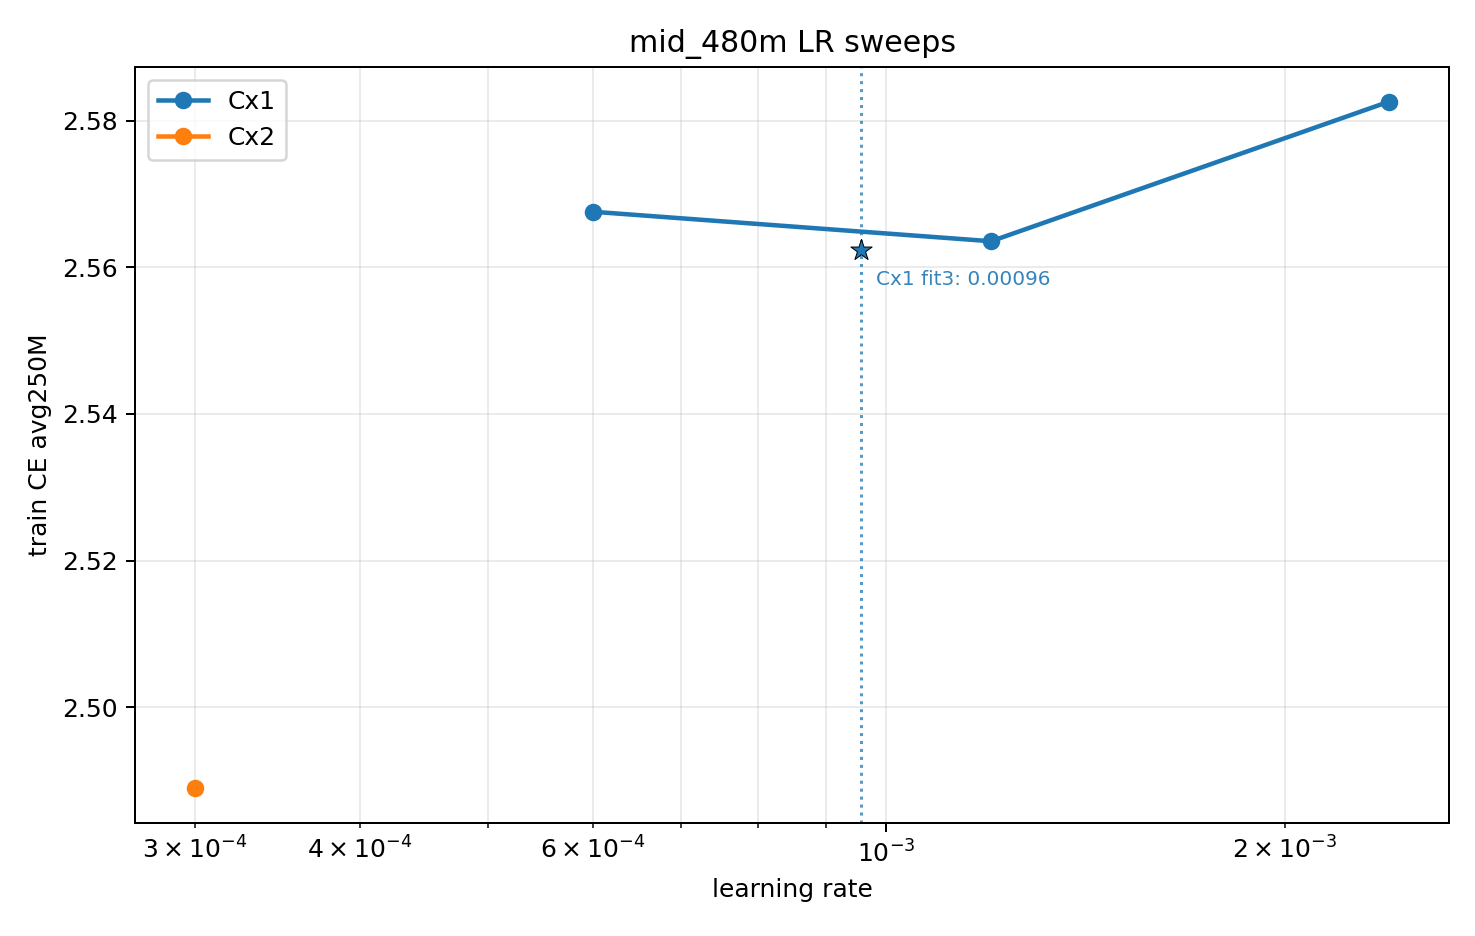
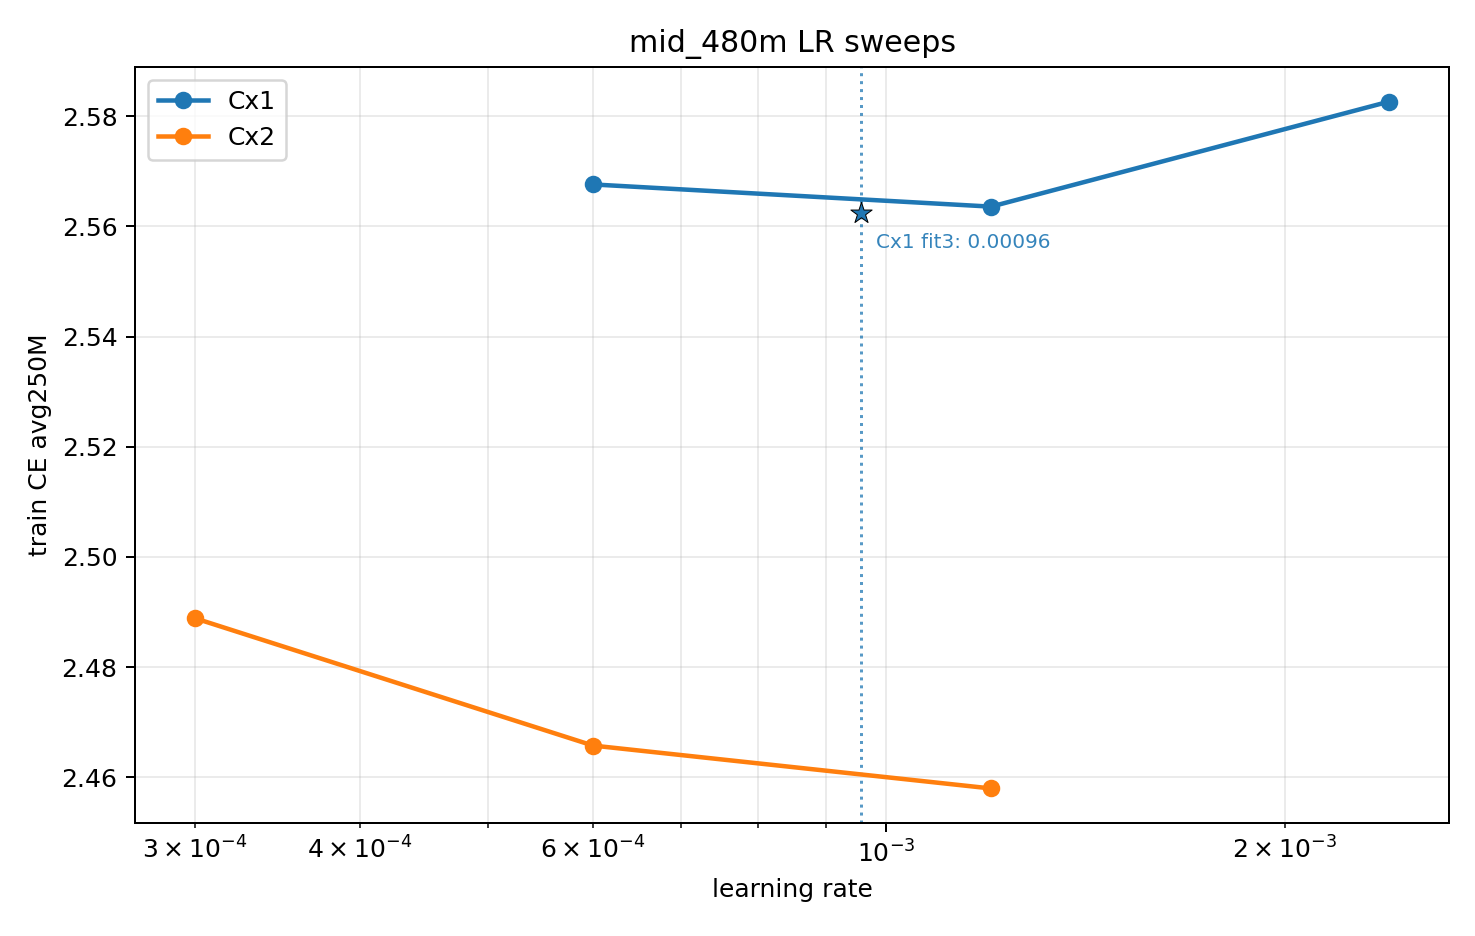
Record 480m Cx2 sweep

diff --git a/src/scripts/train/jacobm_olmoe_ladder/ANALYSIS.md b/src/scripts/train/jacobm_olmoe_ladder/ANALYSIS.md
@@ -156,14 +156,22 @@ remaining 810M/1.2B rungs before drawing a new cross-model conclusion.
 
 ## 2026-06-09 480M Cx2 Status
 
-The first midpoint `mid_480m` Cx2 point has completed:
+The initial midpoint `mid_480m` Cx2 triplet has completed:
 
 | LR | State | Tokens | avg100M | avg250M | avg500M | W&B |
 | ---: | --- | ---: | ---: | ---: | ---: | --- |
 | `3e-4` | finished | 15.216B | 2.4828 | 2.4889 | 2.4874 | `ridb7me5` |
+| `6e-4` | finished | 15.216B | 2.4597 | 2.4658 | 2.4643 | `9bf5s9lf` |
+| `1.2e-3` | finished | 15.216B | 2.4519 | 2.4580 | 2.4567 | `roj7jv11` |
 
-The `6e-4` and `1.2e-3` Cx2 runs are still active. Do not fit or make any
-midpoint Cx2 LR decision until those full runs finish.
+The curve is monotonic over the initial triplet, with best observed avg250M at
+the high-edge `1.2e-3`. Per the ladder policy, launched one factor-of-two
+high-side extension:
+
+- `2.4e-3`: `01KTPWRQD0Z7SN3KEA6EBMTCB2`
+
+Do not fit or make a final midpoint Cx2 LR decision until the `2.4e-3`
+extension finishes.
 
 ## 2026-06-02 Snapshot
 

diff --git a/src/scripts/train/jacobm_olmoe_ladder/RUNS.md b/src/scripts/train/jacobm_olmoe_ladder/RUNS.md
@@ -151,8 +151,9 @@ experiment name.
 | 2026-06-08 | `m480-cx1-b256k-gpu4-ep1mb8-lr1.2e-3-r1` | `tiny_275m.py` | 1x | 262,144 | 32 | 1.2e-3 | `01KTMMJSTMY3TSR7MHH5G7M22H` | https://beaker.org/ex/01KTMMJSTMY3TSR7MHH5G7M22H | Midpoint `mid_480m` Cx1 3-point sweep centered from transferred LR estimate after smoke validation. Finished step 29022, 7.608B tokens, avg100M 2.5653, avg250M 2.5636, avg500M 2.5690. Best completed Cx1 point. W&B `49mybsr0`. 4 GPUs, EP=1, microbatch=8, in-loop fast evals every 2000 steps. |
 | 2026-06-08 | `m480-cx1-b256k-gpu4-ep1mb8-lr2.4e-3-r1` | `tiny_275m.py` | 1x | 262,144 | 32 | 2.4e-3 | `01KTMMK7VN9BXSCBYX2HQKQQWH` | https://beaker.org/ex/01KTMMK7VN9BXSCBYX2HQKQQWH | Midpoint `mid_480m` Cx1 3-point sweep centered from transferred LR estimate after smoke validation. Finished step 29022, 7.608B tokens, avg100M 2.5839, avg250M 2.5826, avg500M 2.5889. Hot side is worse than `1.2e-3`, so Cx1 is bracketed. W&B `7zz7c1zu`. 4 GPUs, EP=1, microbatch=8, in-loop fast evals every 2000 steps. |
 | 2026-06-08 | `m480-cx2-b512k-gpu4-ep1mb8-lr3e-4-r1` | `tiny_275m.py` | 2x | 524,288 | 64 | 3e-4 | `01KTMMKN716ZSRZN473CV4BC23` | https://beaker.org/ex/01KTMMKN716ZSRZN473CV4BC23 | Midpoint `mid_480m` Cx2 3-point sweep centered from transferred LR estimate after smoke validation. Finished step 29022, 15.216B tokens, avg100M 2.4828, avg250M 2.4889, avg500M 2.4874. W&B `ridb7me5`. 4 GPUs, EP=1, microbatch=8, in-loop fast evals every 2000 steps. |
-| 2026-06-08 | `m480-cx2-b512k-gpu4-ep1mb8-lr6e-4-r1` | `tiny_275m.py` | 2x | 524,288 | 64 | 6e-4 | `01KTMMM35QKDE15XCSKG76Z6ST` | https://beaker.org/ex/01KTMMM35QKDE15XCSKG76Z6ST | Midpoint `mid_480m` Cx2 3-point sweep centered from transferred LR estimate after smoke validation. 4 GPUs, EP=1, microbatch=8, in-loop fast evals every 2000 steps. |
-| 2026-06-08 | `m480-cx2-b512k-gpu4-ep1mb8-lr1.2e-3-r1` | `tiny_275m.py` | 2x | 524,288 | 64 | 1.2e-3 | `01KTMMMHBEV4JW3N0X4X3MFHK8` | https://beaker.org/ex/01KTMMMHBEV4JW3N0X4X3MFHK8 | Midpoint `mid_480m` Cx2 3-point sweep centered from transferred LR estimate after smoke validation. 4 GPUs, EP=1, microbatch=8, in-loop fast evals every 2000 steps. |
+| 2026-06-08 | `m480-cx2-b512k-gpu4-ep1mb8-lr6e-4-r1` | `tiny_275m.py` | 2x | 524,288 | 64 | 6e-4 | `01KTMMM35QKDE15XCSKG76Z6ST` | https://beaker.org/ex/01KTMMM35QKDE15XCSKG76Z6ST | Midpoint `mid_480m` Cx2 3-point sweep centered from transferred LR estimate after smoke validation. Finished step 29022, 15.216B tokens, avg100M 2.4597, avg250M 2.4658, avg500M 2.4643. W&B `9bf5s9lf`. 4 GPUs, EP=1, microbatch=8, in-loop fast evals every 2000 steps. |
+| 2026-06-08 | `m480-cx2-b512k-gpu4-ep1mb8-lr1.2e-3-r1` | `tiny_275m.py` | 2x | 524,288 | 64 | 1.2e-3 | `01KTMMMHBEV4JW3N0X4X3MFHK8` | https://beaker.org/ex/01KTMMMHBEV4JW3N0X4X3MFHK8 | Midpoint `mid_480m` Cx2 3-point sweep centered from transferred LR estimate after smoke validation. Finished step 29022, 15.216B tokens, avg100M 2.4519, avg250M 2.4580, avg500M 2.4567. Best completed Cx2 point so far, but on the high edge. W&B `roj7jv11`. 4 GPUs, EP=1, microbatch=8, in-loop fast evals every 2000 steps. |
+| 2026-06-09 | `m480-cx2-b512k-gpu4-ep1mb8-lr2.4e-3-r1` | `tiny_275m.py` | 2x | 524,288 | 64 | 2.4e-3 | `01KTPWRQD0Z7SN3KEA6EBMTCB2` | https://beaker.org/ex/01KTPWRQD0Z7SN3KEA6EBMTCB2 | Midpoint `mid_480m` Cx2 high-side extension after the initial Cx2 triplet was monotonic and high-edge-best at `1.2e-3`. Launched from `launch_moe_a0_mid_480m_cx2_followups.sh`. 4 GPUs, EP=1, microbatch=8, in-loop fast evals every 2000 steps. |
 | 2026-06-08 | `m480-cx4-b512k-gpu4-ep1mb8-lr4e-4-r1` | `tiny_275m.py` | 4x | 524,288 | 64 | 4e-4 | `01KTMMMZ1539AV33SHB12S17Q4` | https://beaker.org/ex/01KTMMMZ1539AV33SHB12S17Q4 | Midpoint `mid_480m` Cx4 3-point sweep centered from transferred LR estimate after smoke validation. 4 GPUs, EP=1, microbatch=8, in-loop fast evals every 2000 steps. |
 | 2026-06-08 | `m480-cx4-b512k-gpu4-ep1mb8-lr8e-4-r1` | `tiny_275m.py` | 4x | 524,288 | 64 | 8e-4 | `01KTMMNC9R56MX1MSGZQ865SXA` | https://beaker.org/ex/01KTMMNC9R56MX1MSGZQ865SXA | Midpoint `mid_480m` Cx4 3-point sweep centered from transferred LR estimate after smoke validation. 4 GPUs, EP=1, microbatch=8, in-loop fast evals every 2000 steps. |
 | 2026-06-08 | `m480-cx4-b512k-gpu4-ep1mb8-lr1.6e-3-r1` | `tiny_275m.py` | 4x | 524,288 | 64 | 1.6e-3 | `01KTMMNTA3NN9K4THQXCKGP717` | https://beaker.org/ex/01KTMMNTA3NN9K4THQXCKGP717 | Midpoint `mid_480m` Cx4 3-point sweep centered from transferred LR estimate after smoke validation. 4 GPUs, EP=1, microbatch=8, in-loop fast evals every 2000 steps. |